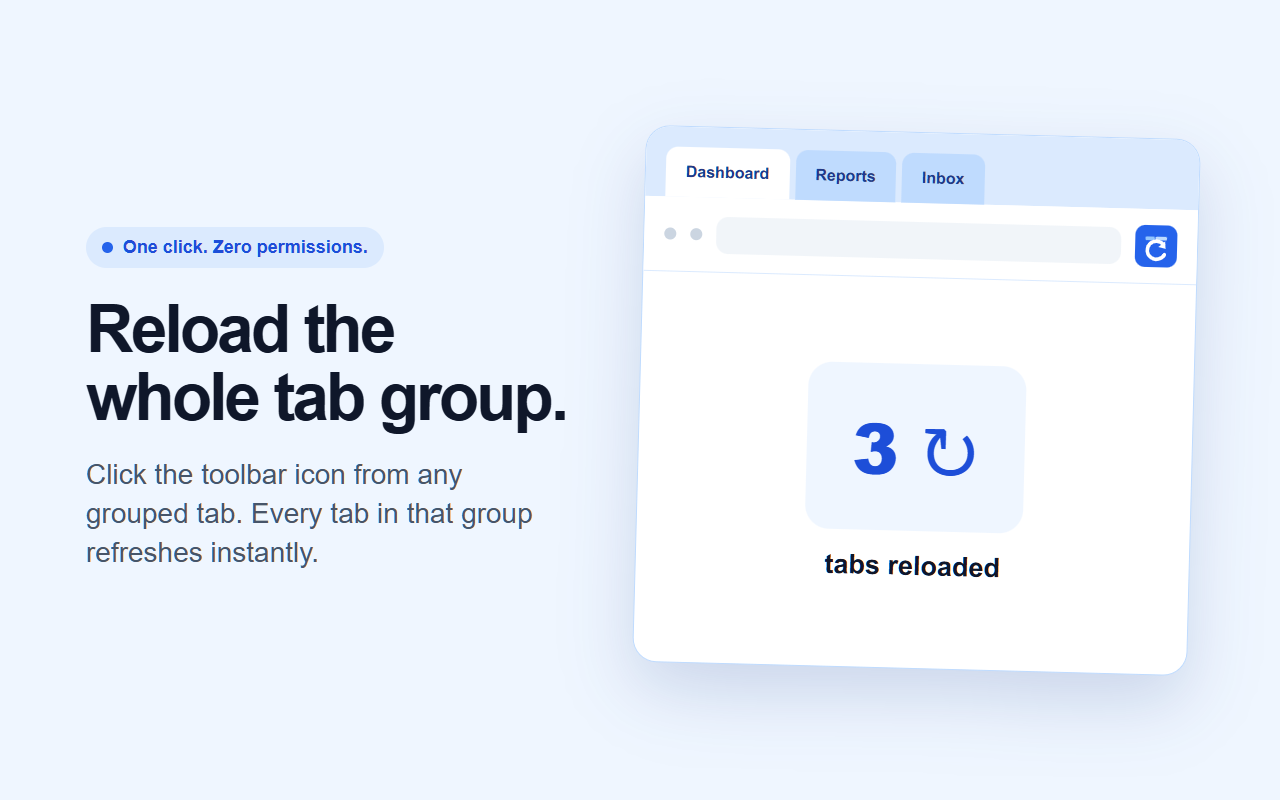
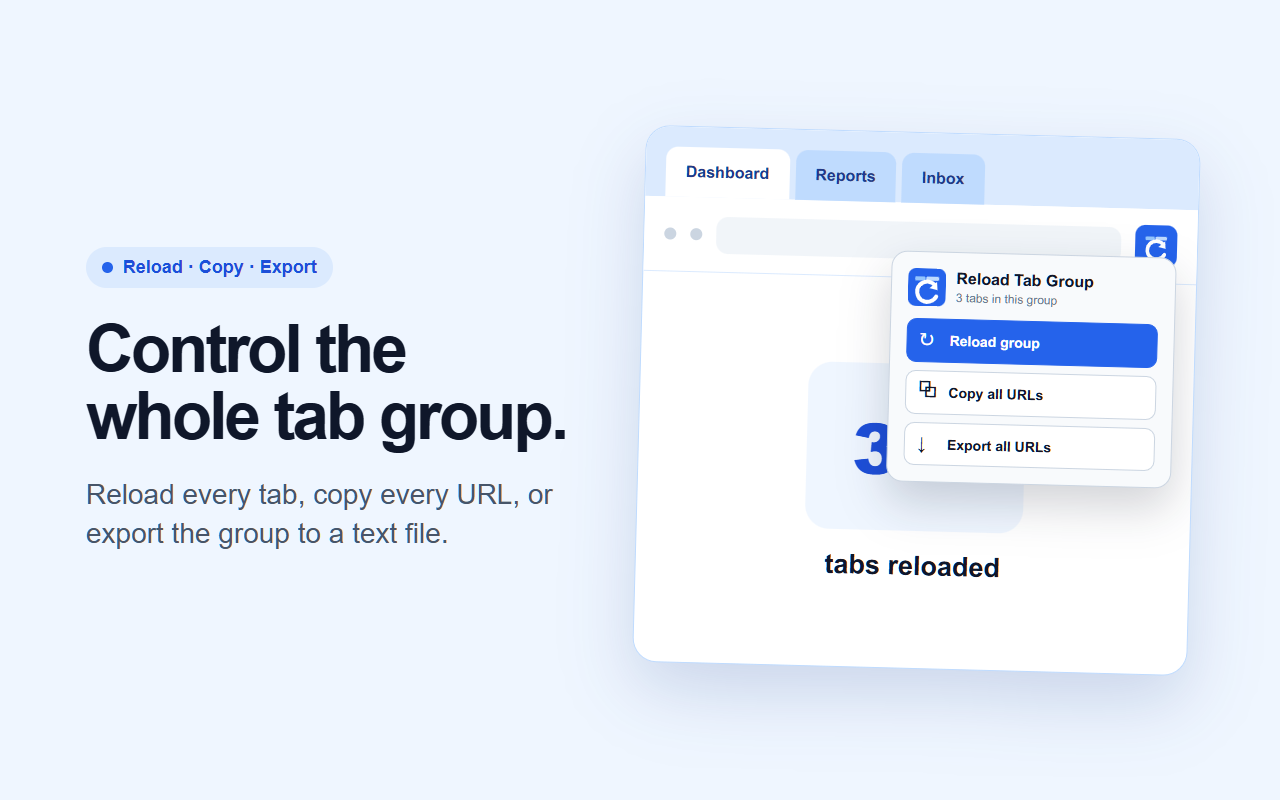
Add copy and export URL actions (#1)

diff --git a/popup.js b/popup.js
@@ -1,0 +1,66 @@
+export async function getGroupTabs(chromeApi = chrome) {
+  const [activeTab] = await chromeApi.tabs.query({ active: true, currentWindow: true });
+  if (!activeTab || activeTab.groupId === -1) return [];
+  return chromeApi.tabs.query({ groupId: activeTab.groupId });
+}
+
+const urlsFrom = (tabs) => tabs.map((tab) => tab.url || tab.pendingUrl).filter(Boolean);
+
+export async function reloadGroup(chromeApi = chrome) {
+  const tabs = await getGroupTabs(chromeApi);
+  await Promise.all(tabs.map((tab) => chromeApi.tabs.reload(tab.id)));
+  return tabs.length;
+}
+
+export async function copyGroupUrls(chromeApi = chrome, clipboard = navigator.clipboard) {
+  const urls = urlsFrom(await getGroupTabs(chromeApi));
+  if (!urls.length) return 0;
+  await clipboard.writeText(urls.join("\n"));
+  return urls.length;
+}
+
+export async function exportGroupUrls(chromeApi = chrome, documentApi = document) {
+  const urls = urlsFrom(await getGroupTabs(chromeApi));
+  if (!urls.length) return 0;
+  const anchor = documentApi.createElement("a");
+  anchor.href = `data:text/plain;charset=utf-8,${encodeURIComponent(`${urls.join("\n")}\n`)}`;
+  anchor.download = "tab-group-urls.txt";
+  anchor.click();
+  return urls.length;
+}
+
+export async function setupPopup({
+  chromeApi = chrome,
+  clipboard = navigator.clipboard,
+  documentApi = document
+} = {}) {
+  const reloadButton = documentApi.getElementById("reload");
+  const copyButton = documentApi.getElementById("copy");
+  const exportButton = documentApi.getElementById("export");
+  const status = documentApi.getElementById("status");
+  const tabs = await getGroupTabs(chromeApi);
+
+  for (const button of [reloadButton, copyButton, exportButton]) {
+    button.disabled = tabs.length === 0;
+  }
+  status.textContent = tabs.length
+    ? `${tabs.length} tabs in this group`
+    : "This tab is not in a group";
+
+  const run = async (action, success, failure) => {
+    try {
+      status.textContent = success(await action());
+    } catch {
+      status.textContent = failure;
+    }
+  };
+
+  reloadButton.addEventListener("click", () =>
+    run(() => reloadGroup(chromeApi), (count) => `Reloaded ${count} tabs`, "Reload failed"));
+  copyButton.addEventListener("click", () =>
+    run(() => copyGroupUrls(chromeApi, clipboard), (count) => `Copied ${count} URLs`, "Copy failed"));
+  exportButton.addEventListener("click", () =>
+    run(() => exportGroupUrls(chromeApi, documentApi), (count) => `Exported ${count} URLs`, "Export failed"));
+}
+
+if (typeof document !== "undefined") setupPopup();

diff --git a/popup.html b/popup.html
@@ -1,0 +1,56 @@
+<!doctype html>
+<html lang="en">
+<meta charset="utf-8">
+<meta name="viewport" content="width=device-width, initial-scale=1">
+<title>Reload Tab Group</title>
+<style>
+  * { box-sizing: border-box; }
+  body {
+    background: #f8fafc;
+    color: #0f172a;
+    font: 14px/1.4 system-ui, sans-serif;
+    margin: 0;
+    padding: 16px;
+    width: 300px;
+  }
+  header { align-items: center; display: flex; gap: 12px; margin-bottom: 14px; }
+  header img { height: 40px; width: 40px; }
+  h1 { font-size: 16px; margin: 0 0 2px; }
+  p { color: #64748b; font-size: 12px; margin: 0; }
+  main { display: grid; gap: 8px; }
+  button {
+    align-items: center;
+    background: #fff;
+    border: 1px solid #cbd5e1;
+    border-radius: 10px;
+    color: #0f172a;
+    cursor: pointer;
+    display: flex;
+    font: inherit;
+    font-weight: 650;
+    gap: 10px;
+    padding: 11px 13px;
+    text-align: left;
+    width: 100%;
+  }
+  button:hover { background: #eff6ff; border-color: #60a5fa; }
+  button:focus-visible { outline: 3px solid #93c5fd; outline-offset: 1px; }
+  button:disabled { cursor: not-allowed; opacity: .5; }
+  button.primary { background: #2563eb; border-color: #2563eb; color: #fff; }
+  button.primary:hover { background: #1d4ed8; }
+  button span { font-size: 18px; line-height: 1; width: 20px; }
+</style>
+<header>
+  <img src="icons/icon48.png" alt="">
+  <div>
+    <h1>Reload Tab Group</h1>
+    <p id="status" role="status" aria-live="polite">Checking active group…</p>
+  </div>
+</header>
+<main>
+  <button id="reload" class="primary" type="button"><span>↻</span>Reload group</button>
+  <button id="copy" type="button"><span>⧉</span>Copy all URLs</button>
+  <button id="export" type="button"><span>↓</span>Export all URLs</button>
+</main>
+<script type="module" src="popup.js"></script>
+</html>

diff --git a/store-assets/screenshot.html b/store-assets/screenshot.html
@@ -11,7 +11,7 @@
   p { color: #475569; font-size: 28px; line-height: 1.4; margin: 0; }
   .badge { align-items: center; background: #dbeafe; border-radius: 999px; color: #1d4ed8; display: inline-flex; font-size: 18px; font-weight: 700; gap: 10px; margin-bottom: 28px; padding: 10px 16px; }
   .badge span { background: #2563eb; border-radius: 50%; height: 11px; width: 11px; }
-  .browser { background: white; border: 1px solid #bfdbfe; border-radius: 24px; box-shadow: 0 28px 65px #1e3a8a2b; overflow: hidden; transform: rotate(1.5deg); }
+  .browser { background: white; border: 1px solid #bfdbfe; border-radius: 24px; box-shadow: 0 28px 65px #1e3a8a2b; overflow: hidden; position: relative; transform: rotate(1.5deg); }
   .top { background: #dbeafe; padding: 20px 20px 0; }
   .tabs { display: flex; gap: 6px; }
   .tab { background: #bfdbfe; border-radius: 12px 12px 0 0; color: #1e3a8a; font-size: 16px; font-weight: 700; padding: 16px 20px; }
@@ -24,12 +24,20 @@
   .page { display: grid; min-height: 390px; place-items: center; padding: 54px; text-align: center; }
   .count { background: #eff6ff; border-radius: 24px; color: #1d4ed8; font-size: 70px; font-weight: 800; padding: 34px 46px; }
   .page strong { display: block; font-size: 27px; margin-top: 20px; }
+  .popup { background: #f8fafc; border: 1px solid #cbd5e1; border-radius: 16px; box-shadow: 0 20px 45px #0f172a30; padding: 16px; position: absolute; right: 20px; top: 118px; width: 285px; }
+  .popup-title { align-items: center; display: flex; gap: 10px; margin-bottom: 12px; text-align: left; }
+  .popup-title img { height: 38px; width: 38px; }
+  .popup-title b { display: block; font-size: 16px; }
+  .popup-title small { color: #64748b; font-size: 12px; }
+  .popup-button { align-items: center; background: white; border: 1px solid #cbd5e1; border-radius: 10px; display: flex; font-size: 14px; font-weight: 700; gap: 10px; margin-top: 8px; padding: 10px 12px; }
+  .popup-button.primary { background: #2563eb; border-color: #2563eb; color: white; }
+  .popup-button span { font-size: 18px; width: 20px; }
 </style>
 <main>
   <section>
-    <div class="badge"><span></span> One click. Zero permissions.</div>
-    <h1>Reload the whole tab group.</h1>
-    <p>Click the toolbar icon from any grouped tab. Every tab in that group refreshes instantly.</p>
+    <div class="badge"><span></span> Reload · Copy · Export</div>
+    <h1>Control the whole tab group.</h1>
+    <p>Reload every tab, copy every URL, or export the group to a text file.</p>
   </section>
   <section class="browser">
     <div class="top">
@@ -49,6 +57,15 @@
         <div class="count">3 ↻</div>
         <strong>tabs reloaded</strong>
       </div>
+    </div>
+    <div class="popup">
+      <div class="popup-title">
+        <img src="icon-source.svg" alt="">
+        <div><b>Reload Tab Group</b><small>3 tabs in this group</small></div>
+      </div>
+      <div class="popup-button primary"><span>↻</span>Reload group</div>
+      <div class="popup-button"><span>⧉</span>Copy all URLs</div>
+      <div class="popup-button"><span>↓</span>Export all URLs</div>
     </div>
   </section>
 </main>

diff --git a/STORE_LISTING.md b/STORE_LISTING.md
@@ -3,31 +3,38 @@
 ## Product details
 
 - **Name:** Reload Tab Group
-- **Summary:** Reload every tab in the active Chrome tab group with one click. No tracking, data collection, or permissions.
+- **Summary:** Reload a tab group, copy all its URLs, or export them to a text file—locally, with no tracking.
 - **Category:** Tools
 - **Language:** English
 
 ## Detailed description
 
-Reload Tab Group gives you a fast, predictable way to refresh every tab in the group you are currently using.
+Reload Tab Group gives you a fast, predictable way to manage every tab in the group you are currently using.
 
-Open a grouped tab and click the extension icon. Every tab in that group reloads immediately, and the badge shows how many tabs were refreshed. If the active tab is not in a group, nothing is reloaded.
+Open a grouped tab and click the extension icon. Reload every tab, copy every URL to the clipboard, or export one URL per line to a text file. If the active tab is not in a group, the actions are disabled.
 
 Features:
 
-- One-click reload for the active tab group
-- No setup or popup
-- No requested permissions
+- Reload every tab in the active group
+- Copy all grouped tab URLs
+- Export all grouped tab URLs to `tab-group-urls.txt`
+- One compact popup with no setup
+- Only the `tabs` permission; no host permissions
 - No tracking, analytics, ads, or network requests
-- Runs only when you click the toolbar icon
+- Runs only when you choose an action
 
 ## Single purpose
 
-Reload all tabs in the active tab group when the user clicks the extension icon.
+Manage the active tab group by reloading its tabs or copying/exporting its URLs.
+
+## Permission justification
+
+- **tabs:** Required to read the URLs of every tab in the active group for the user-requested Copy and Export actions. URLs are processed locally and never stored or transmitted.
 
 ## Privacy disclosures
 
-- Handles user data: **No**
+- Handles browsing activity: **Yes, locally, only for the requested Copy or Export action**
+- Collects or transmits user data: **No**
 - Sells or transfers user data: **No**
 - Uses data for purposes unrelated to the single purpose: **No**
 - Uses remote code: **No**

diff --git a/README.md b/README.md
@@ -1,18 +1,19 @@
 # Reload Tab Group
 
-A tiny Chrome extension that reloads every tab in the active tab group with one click.
+A tiny Chrome extension for reloading a tab group, copying all its URLs, or exporting them to a text file.
 
 ## Use
 
 1. Pin **Reload Tab Group** to the Chrome toolbar.
 2. Open any tab inside a tab group.
 3. Click the extension icon.
+4. Choose **Reload group**, **Copy all URLs**, or **Export all URLs**.
 
-The badge shows how many tabs were reloaded. If the active tab is not grouped, the extension does nothing and shows a dash.
+Export creates `tab-group-urls.txt` with one URL per line. Actions are disabled when the active tab is not grouped.
 
 ## Privacy and permissions
 
-The extension requests no permissions, collects no data, and makes no network requests. See [PRIVACY.md](PRIVACY.md).
+The extension requests the `tabs` permission only to read URLs from every tab in the active group for Copy and Export. URLs stay on the device; the extension collects no data and makes no network requests. See [PRIVACY.md](PRIVACY.md).
 
 ## Install from source
 

diff --git a/CHROME_WEB_STORE_CHECKLIST.md b/CHROME_WEB_STORE_CHECKLIST.md
@@ -1,11 +1,11 @@
 # Chrome Web Store submission checklist
 
 1. Open the [Chrome Web Store Developer Dashboard](https://chrome.google.com/webstore/devconsole/).
-2. Create a new item and upload `dist/reload-tab-group-v1.0.0.zip`.
+2. Create a new item and upload `dist/reload-tab-group-v1.1.0.zip`.
 3. Copy the text from `STORE_LISTING.md`.
 4. Upload `icons/icon128.png` and `store-assets/screenshot-1280x800.png`.
 5. Select **Tools** and **English**.
-6. Complete the privacy form with the answers in `STORE_LISTING.md`.
+6. Complete the privacy form with the answers and `tabs` permission justification in `STORE_LISTING.md`.
 7. Confirm the extension contains no ads and uses no in-app purchases.
 8. Save the draft, run the dashboard checks, then submit for review.
 

diff --git a/PRIVACY.md b/PRIVACY.md
@@ -4,6 +4,6 @@ Effective date: July 19, 2026
 
 Reload Tab Group does not collect, store, transmit, sell, or share personal information or browsing data.
 
-The extension uses Chrome's local Tabs API only after the user clicks its toolbar icon. It reads the active tab's group identifier and reloads the tabs in that group. No data leaves the browser, and the extension makes no network requests.
+The extension uses Chrome's local Tabs API only after the user opens its popup and chooses an action. It reads the active group and its tab URLs to reload tabs, copy URLs to the clipboard, or export URLs to a local text file. URLs are not stored by the extension. No data leaves the browser, and the extension makes no network requests.
 
 Questions may be submitted through the repository's GitHub Issues page.